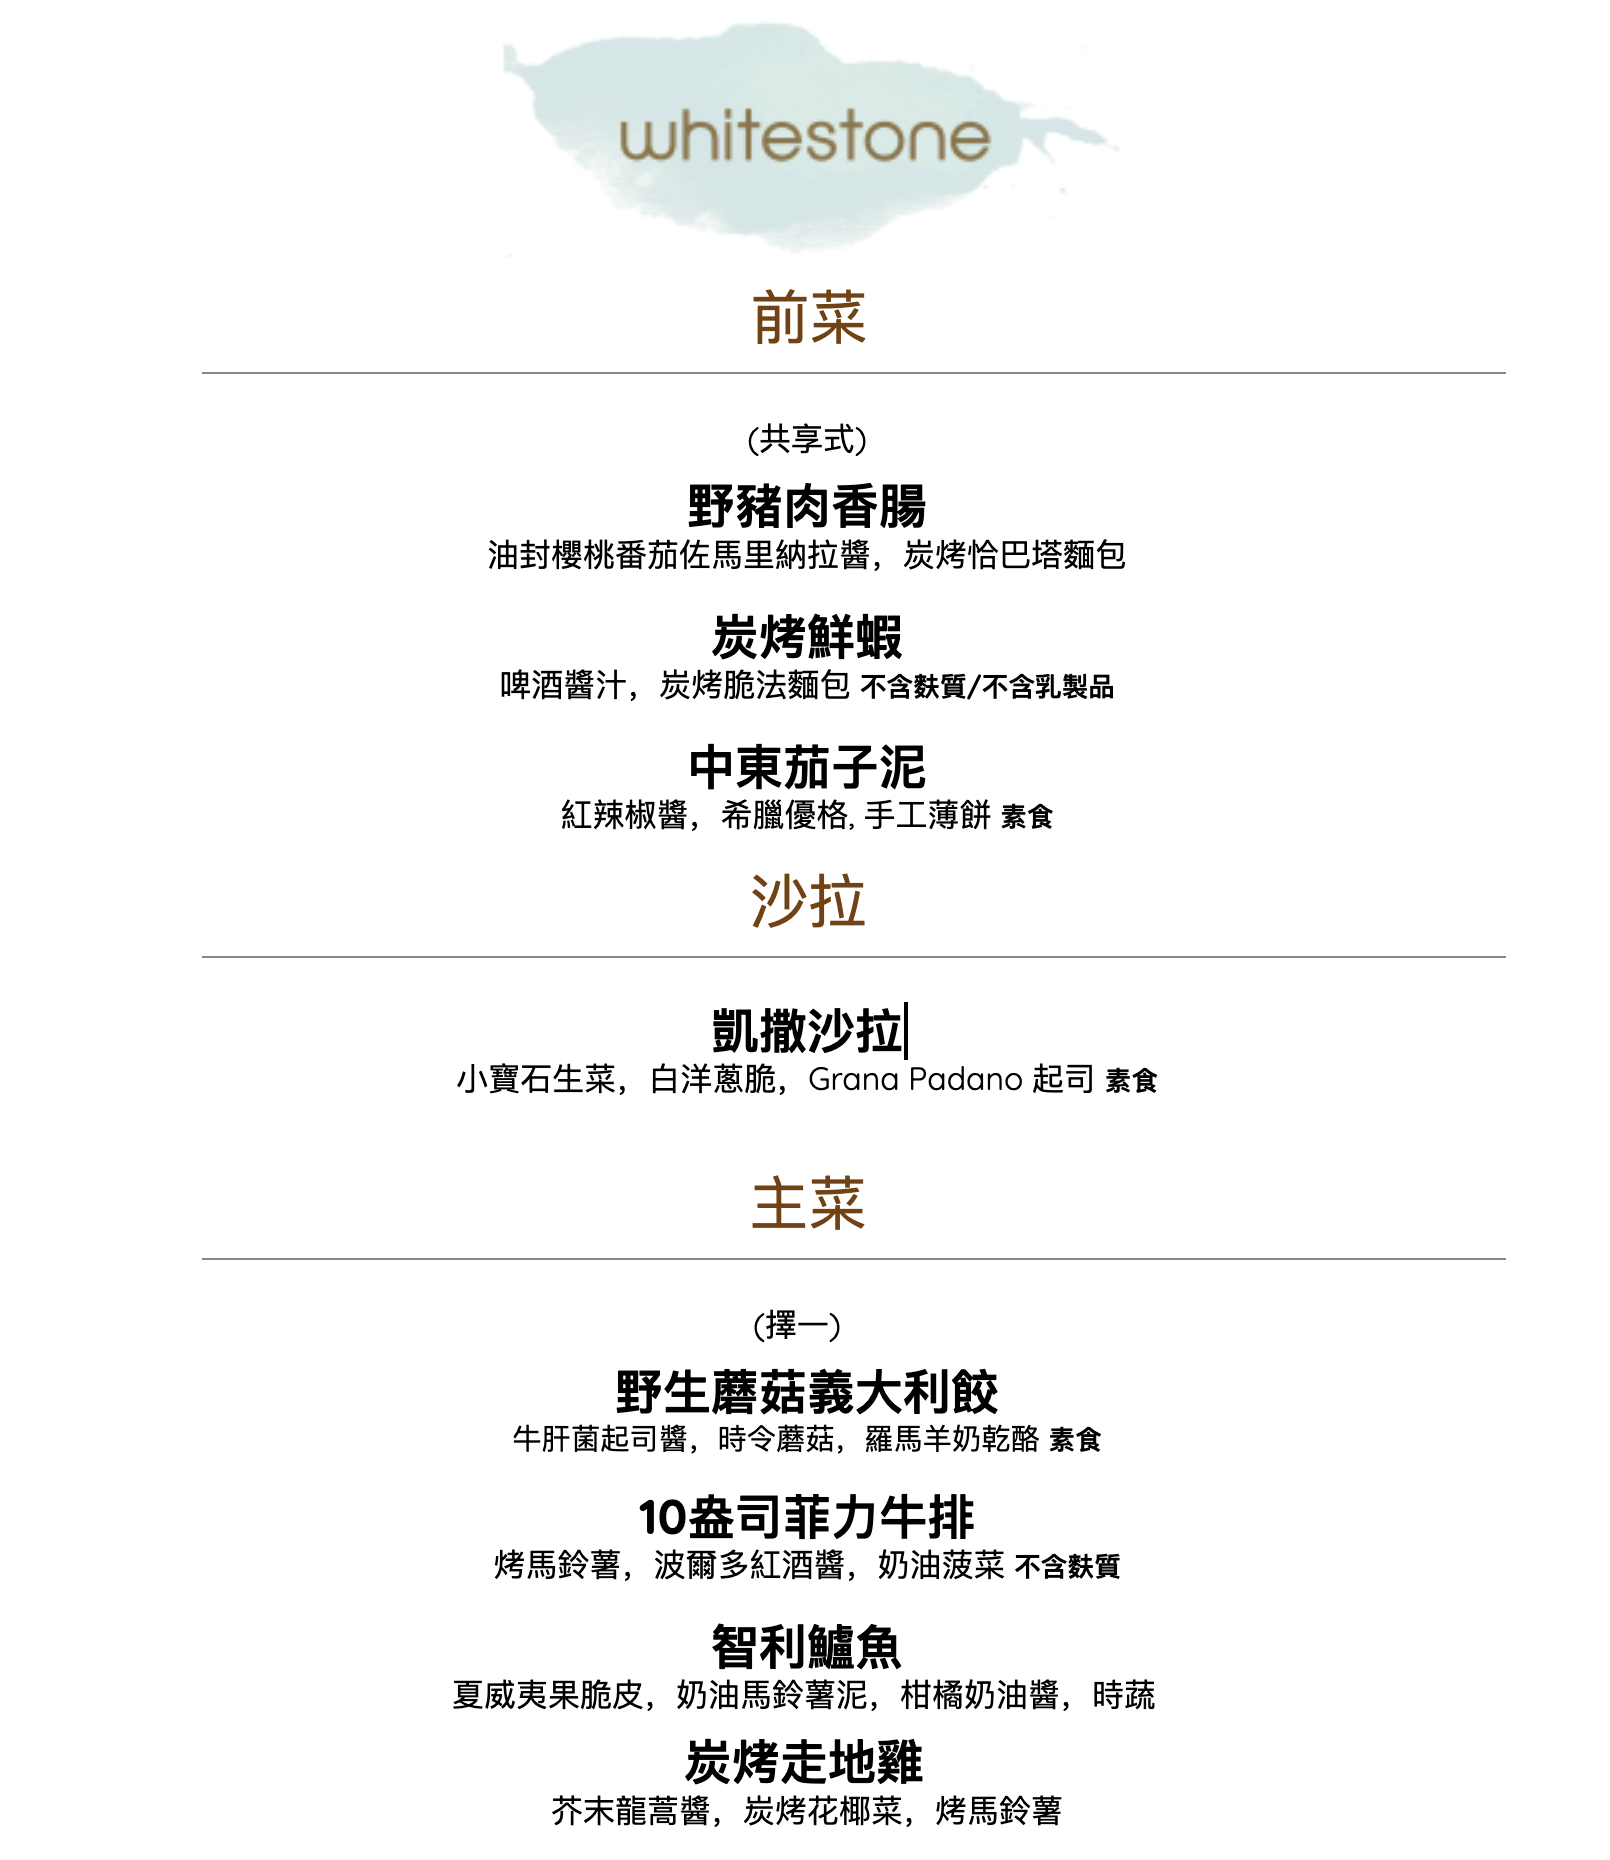
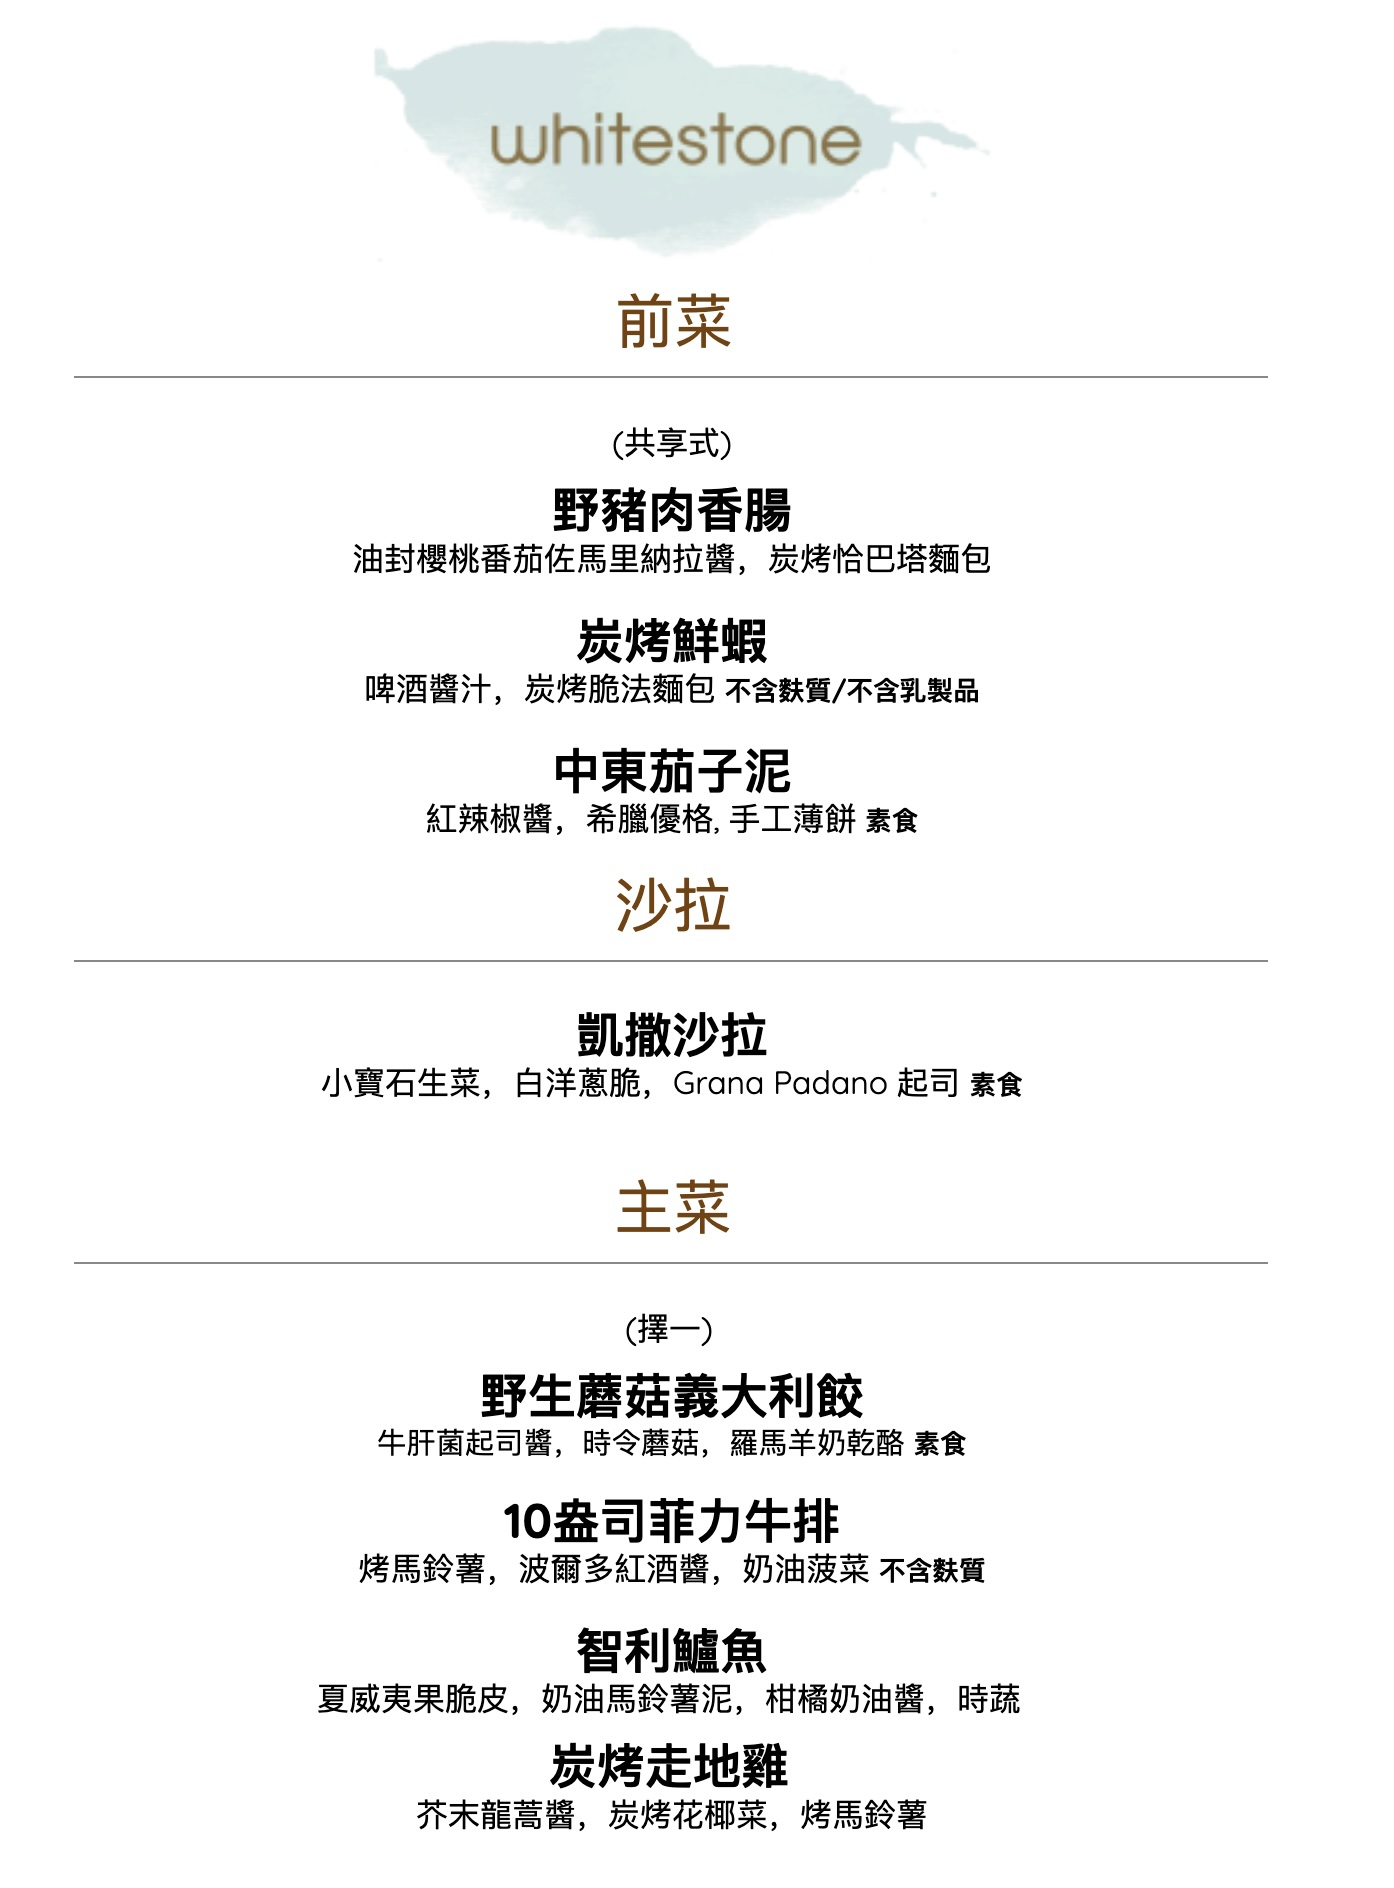
Update Chinese dinner menu image

diff --git a/src/pages/faqPage/FAQ.css b/src/pages/faqPage/FAQ.css
@@ -9,7 +9,7 @@
 }
 
 .faq-row-question {
-  font-family: "Lucida Sans", "LXGWWenKaiTC", sans-serif;
+  font-family: "Lucida Sans", "cjk", sans-serif;
   font-style: italic;
   font-size: 30px;
   margin-bottom: 10px;

diff --git a/src/pages/dinnerPage/Dinner.css b/src/pages/dinnerPage/Dinner.css
@@ -8,6 +8,7 @@
 }
 
 .dinner-menu-image.chinese {
+  margin-left: 25px;
   background-image: url("~/src/images/dinner-menu-chinese.jpg");
 }
 
